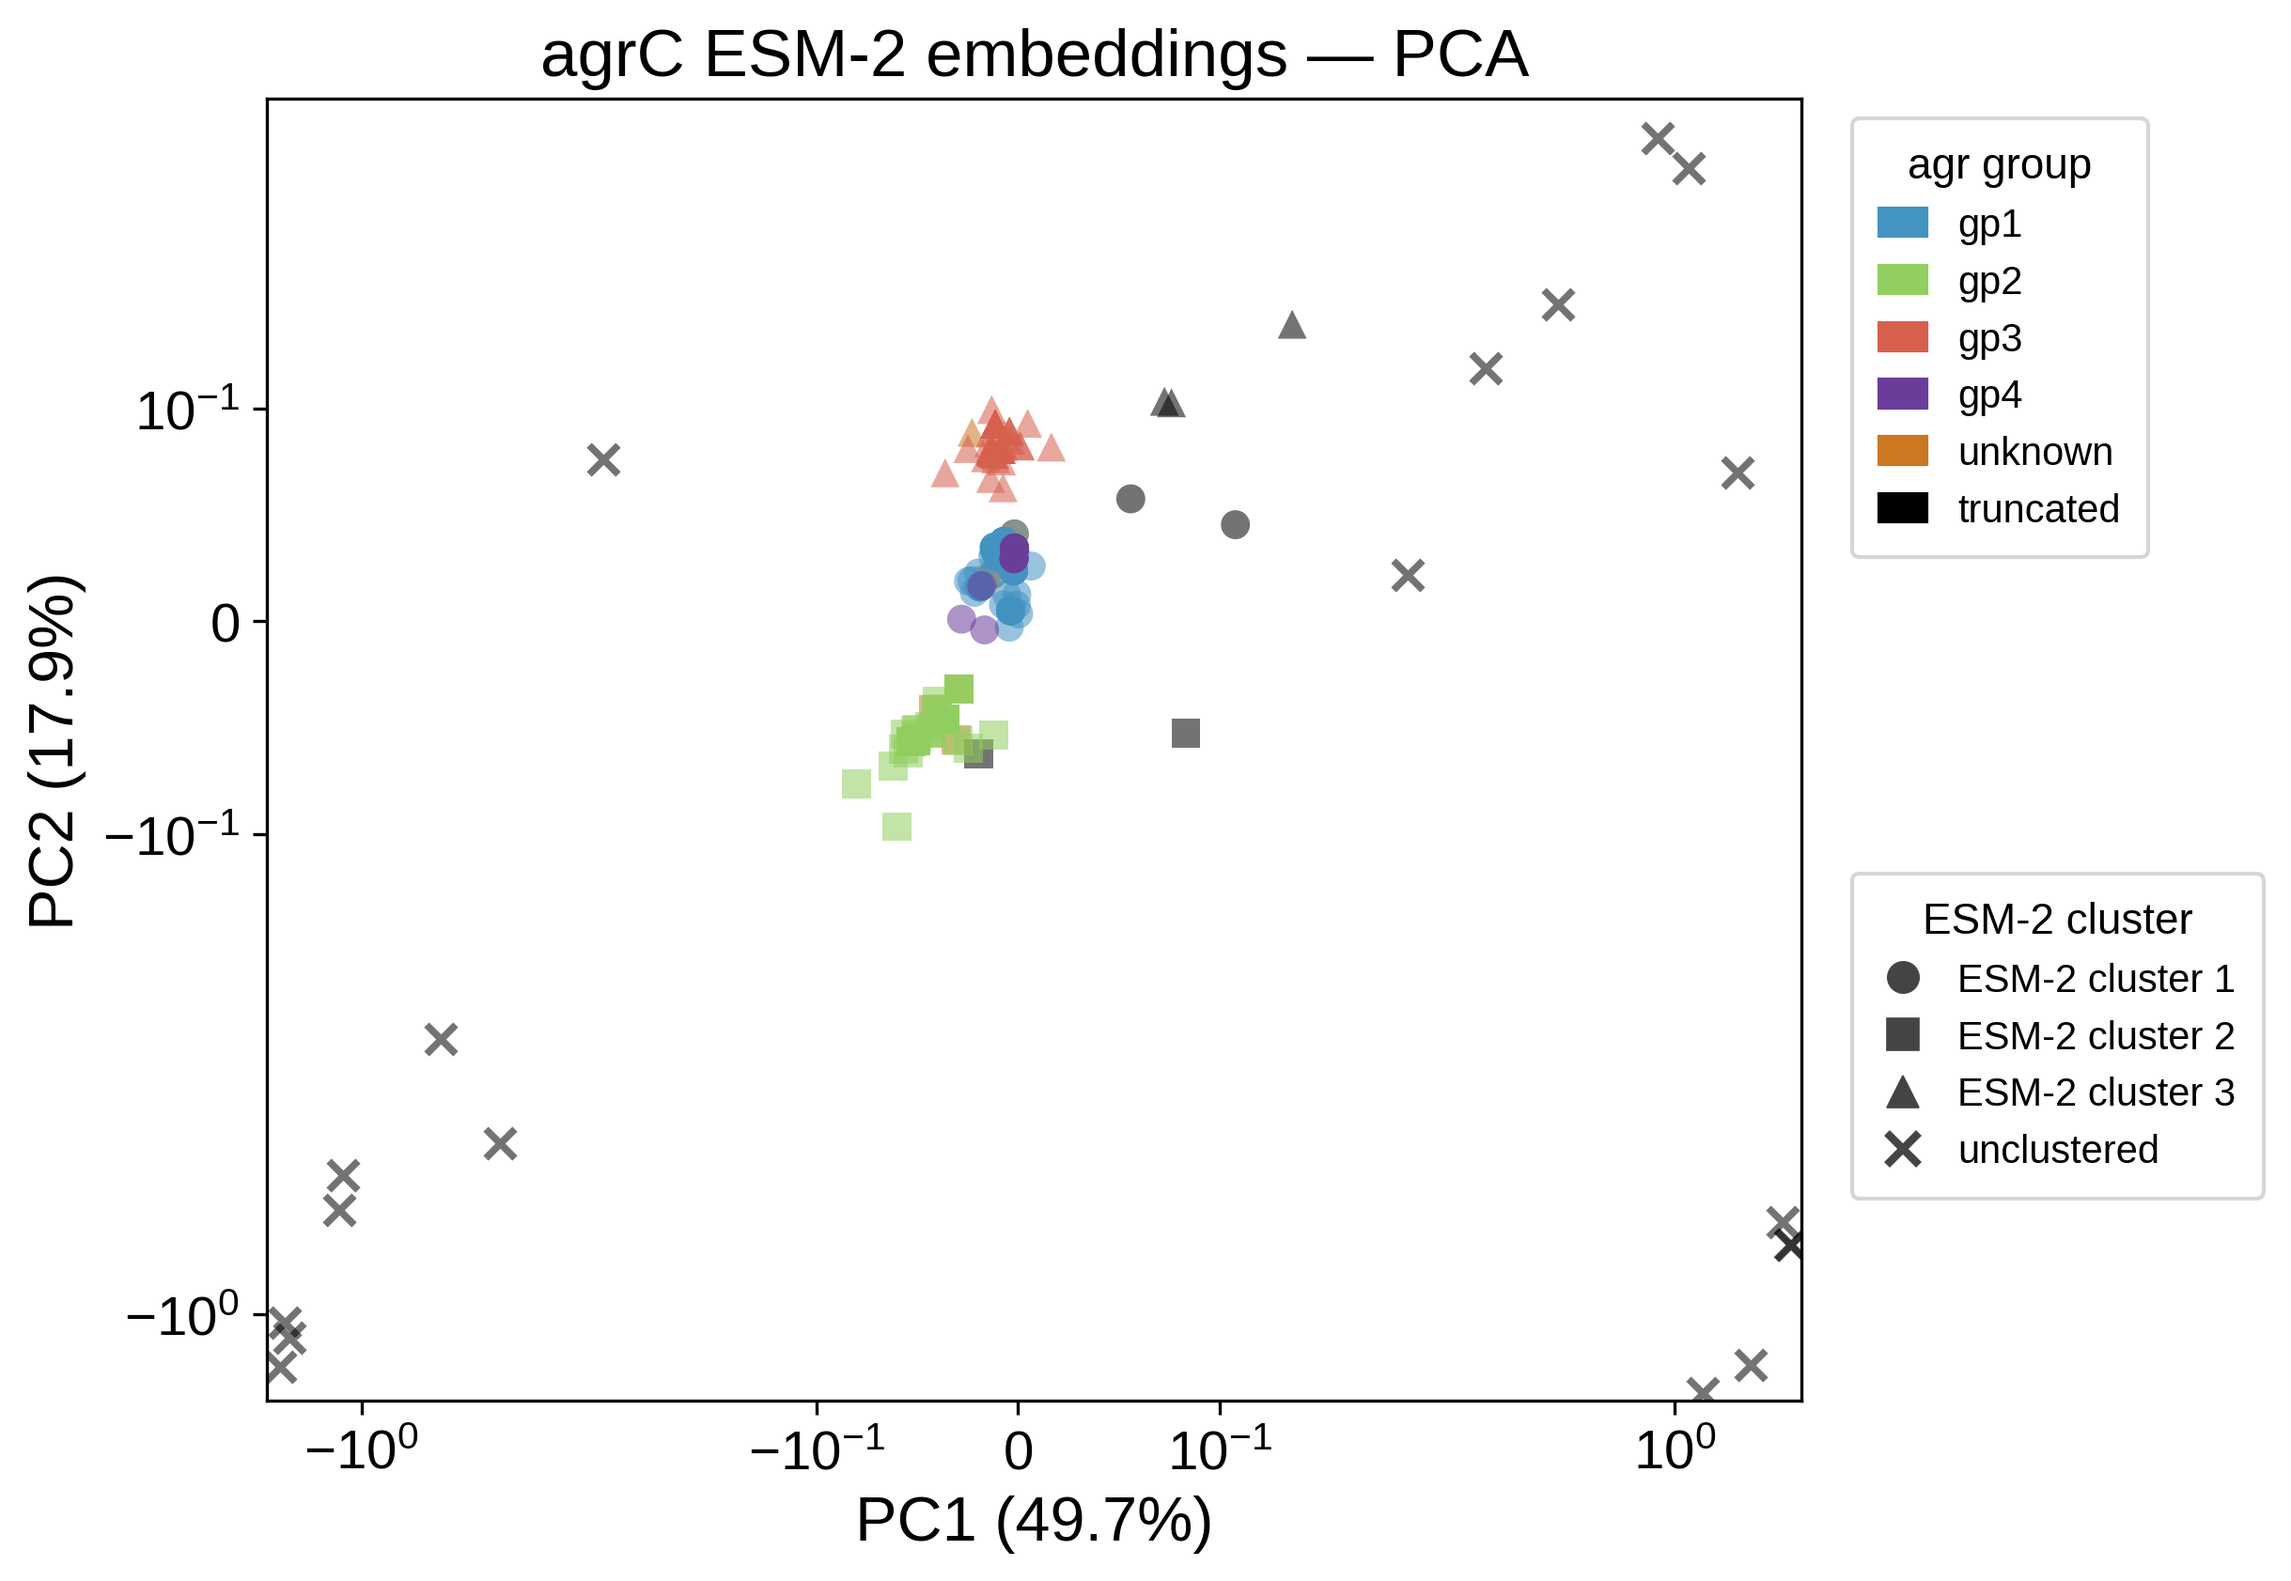
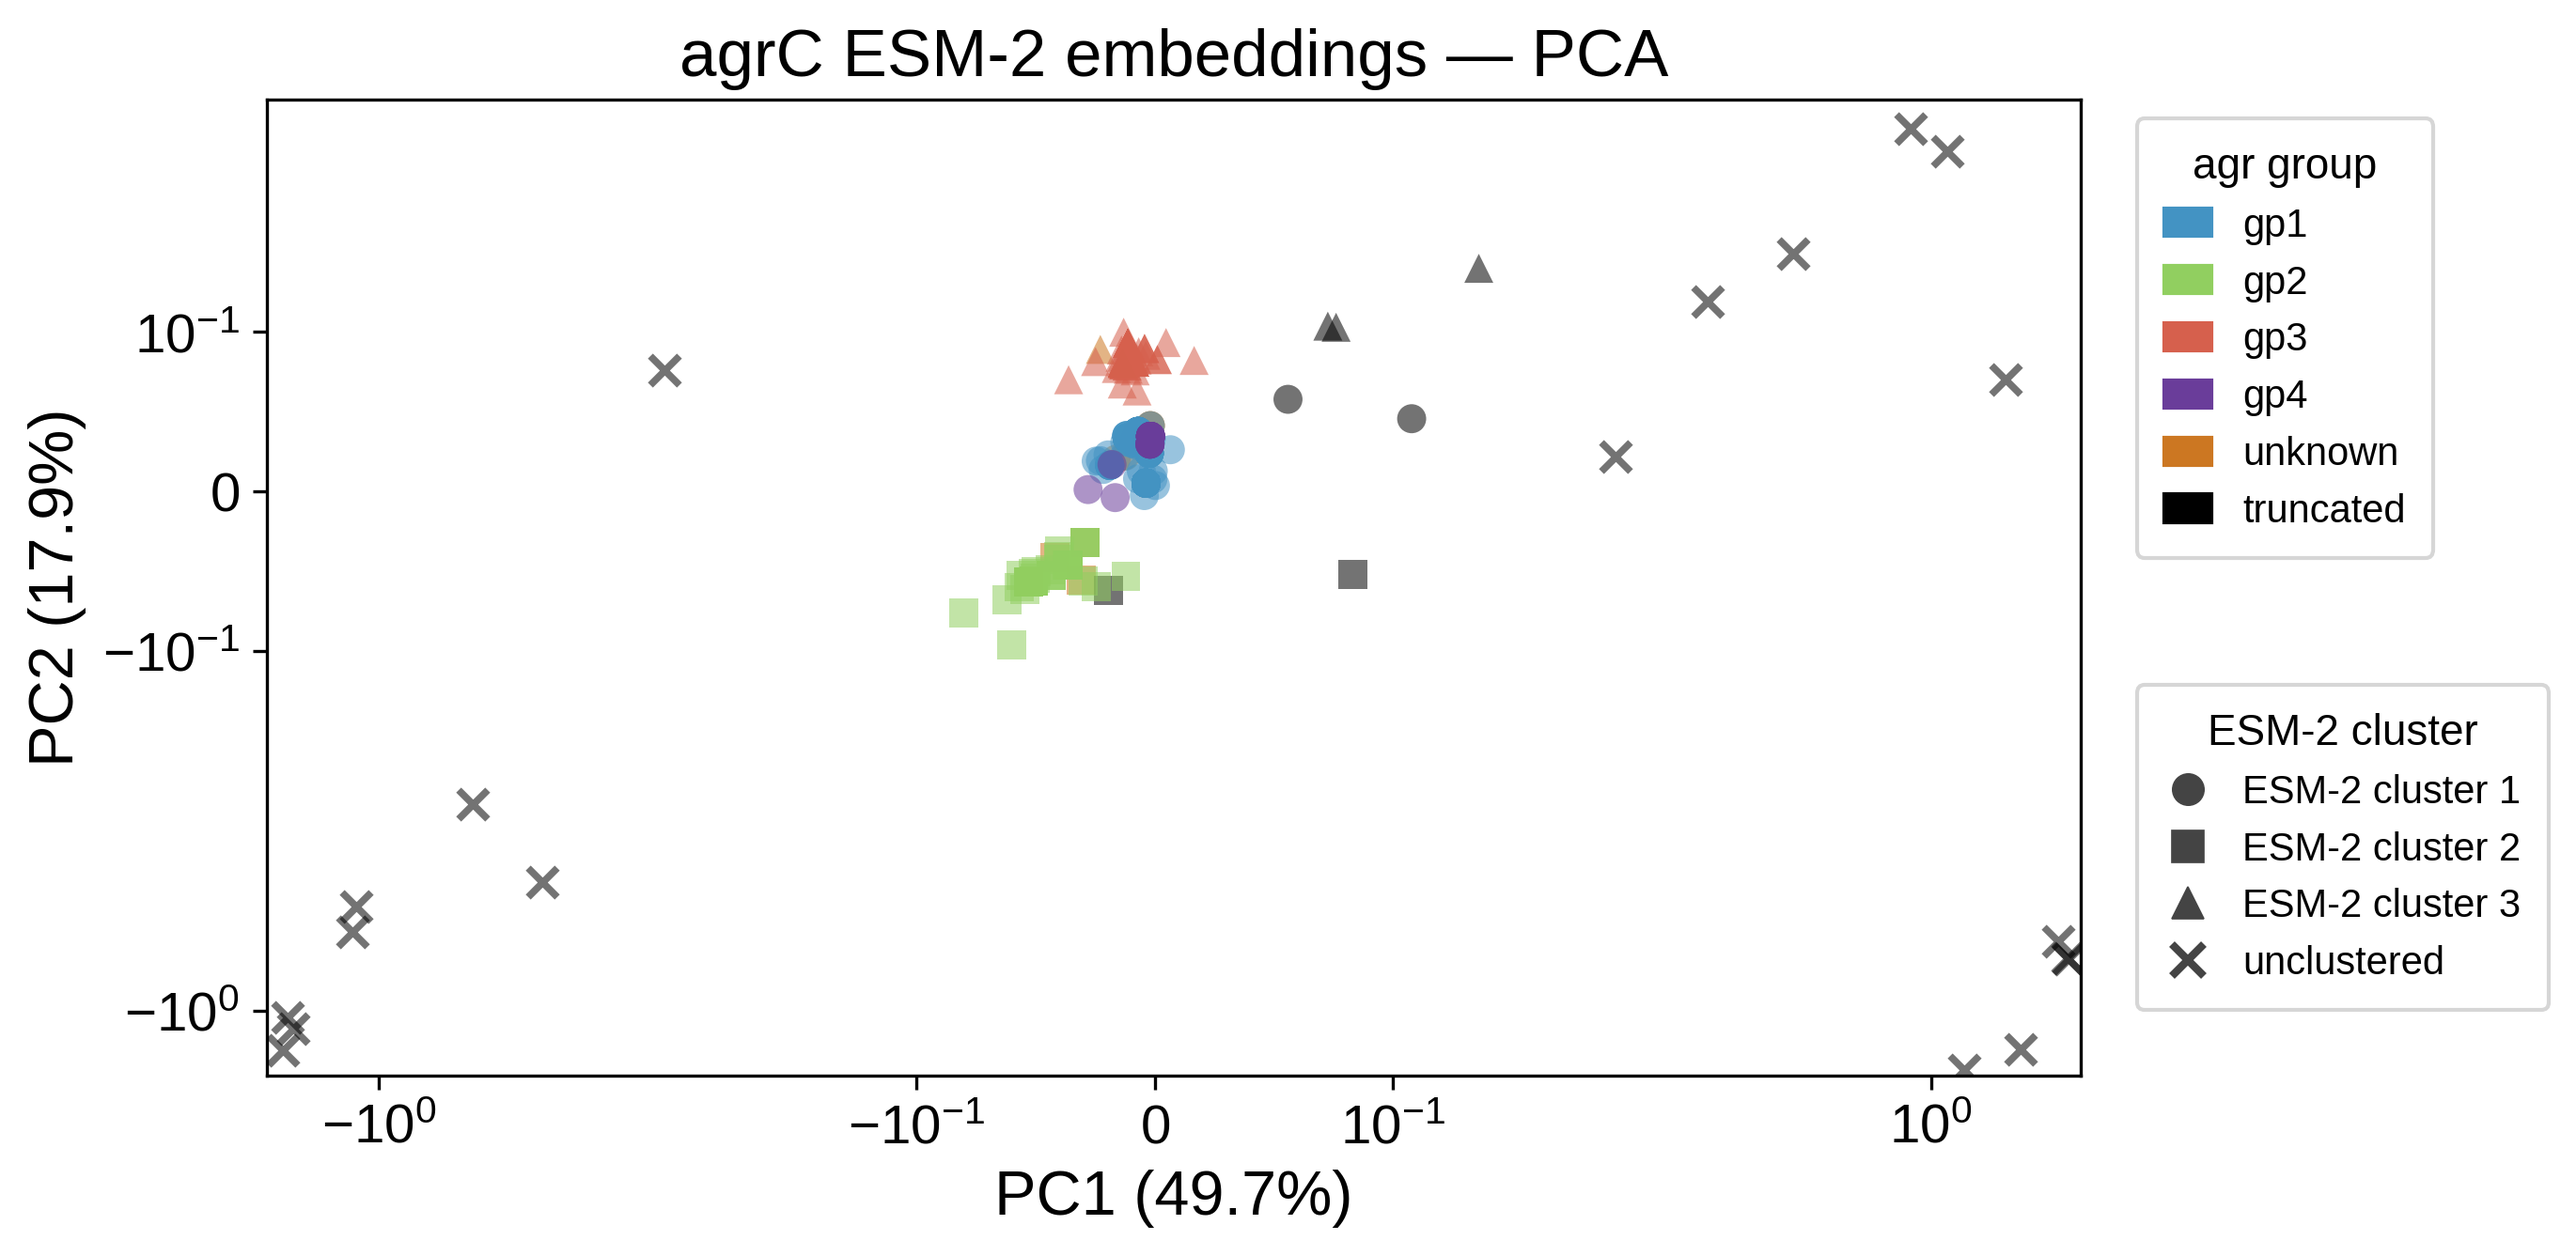
Wider, shorter figure: 13x4.5
https://claude.ai/code/session_01NFC4RxMTbBLYjMsjyKhpz9

diff --git a/agrc_esm_single.py b/agrc_esm_single.py
@@ -119,7 +119,7 @@ cluster_markers = {
 }
 
 # ── Plot ──────────────────────────────────────────────────────────────────────
-fig, ax = plt.subplots(figsize=(11, 6))
+fig, ax = plt.subplots(figsize=(13, 4.5))
 fig.subplots_adjust(right=0.62)   # leave room for legends on the right
 
 agr_order     = ["gp1", "gp2", "gp3", "gp4", "unknown", "truncated"]
